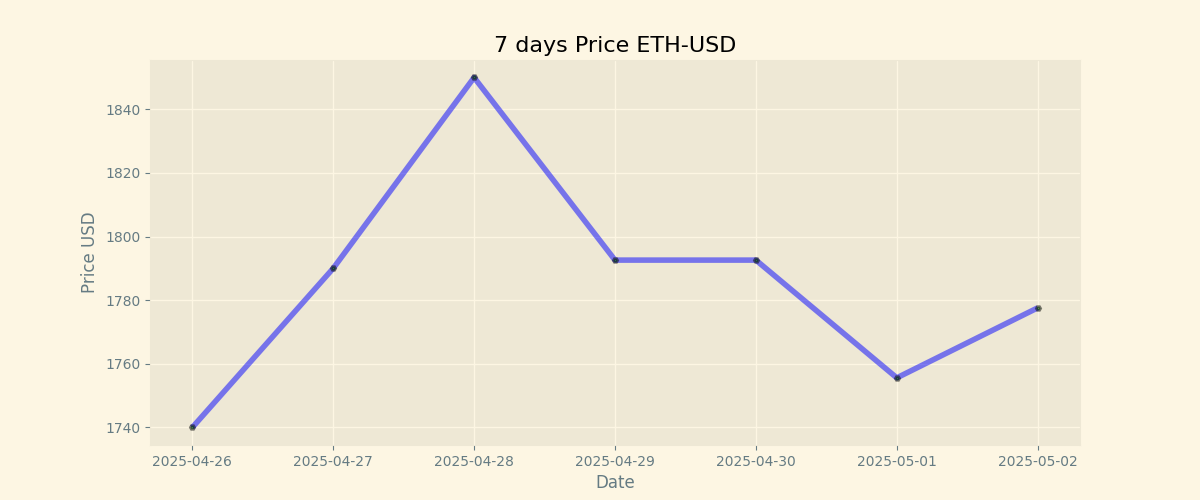
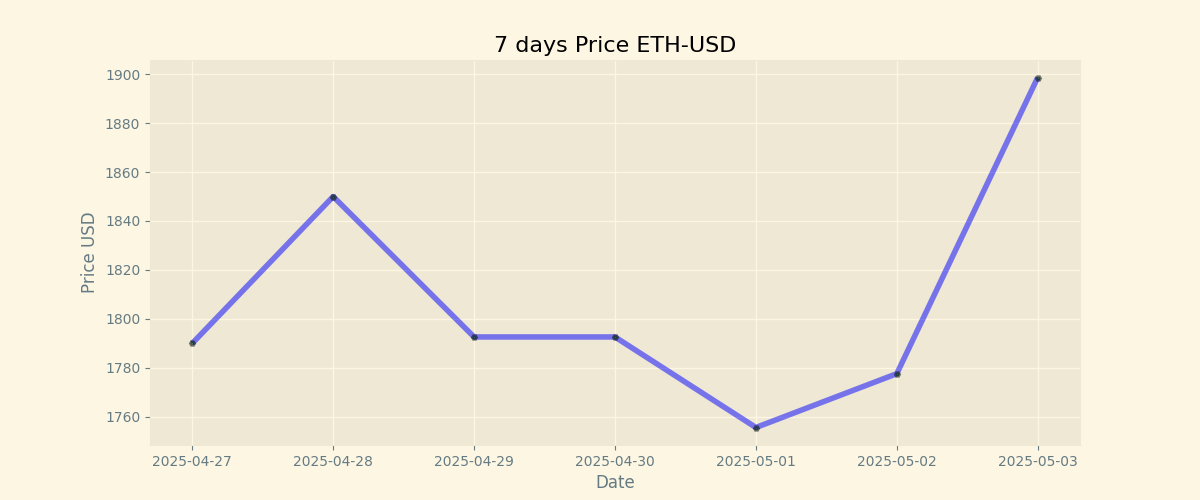
Duty Updates 2025-05-03

diff --git a/README.md b/README.md
@@ -9,8 +9,8 @@
 
 | Currency | Price           |
 | -------- | --------------- |
-| **BTC**  | **$ 95998.0** |
-| **ETH**  | **$ 1777.61** |
+| **BTC**  | **$ 96246.73** |
+| **ETH**  | **$ 1898.64** |
 
 ## BTC chart
 
